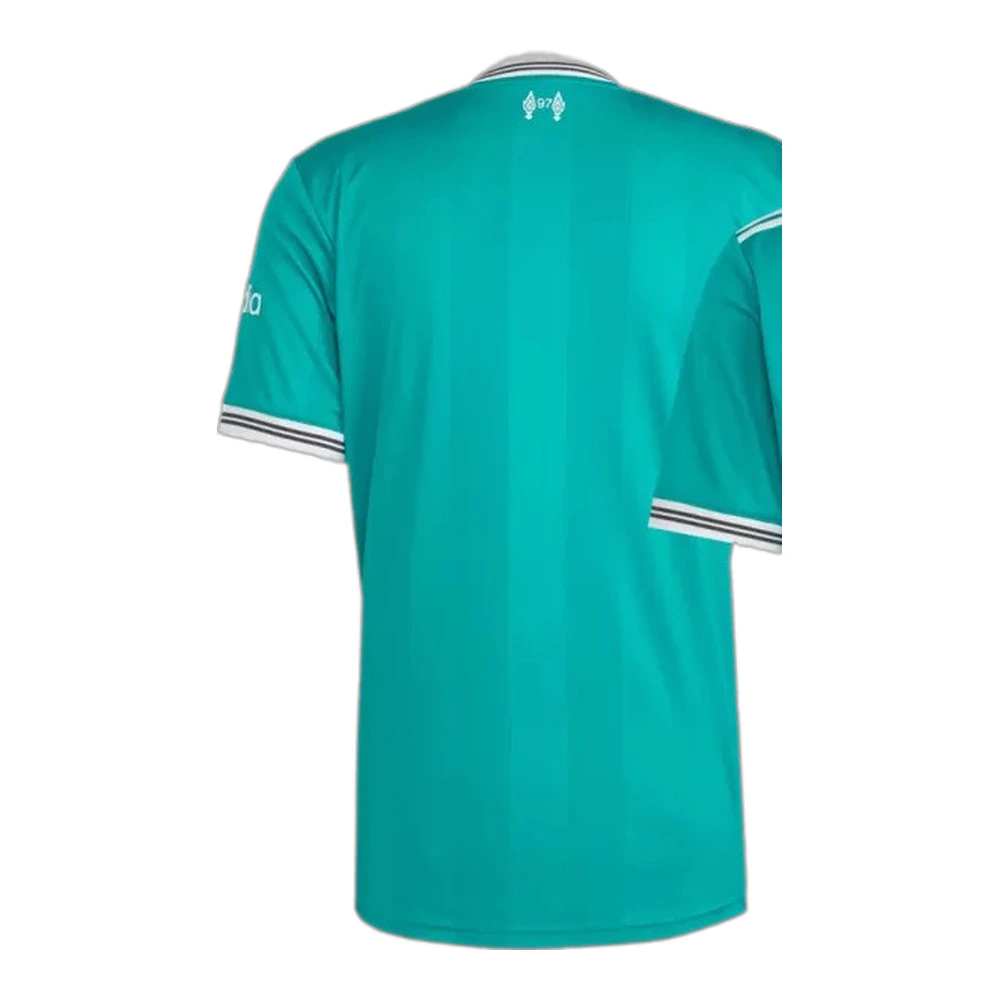
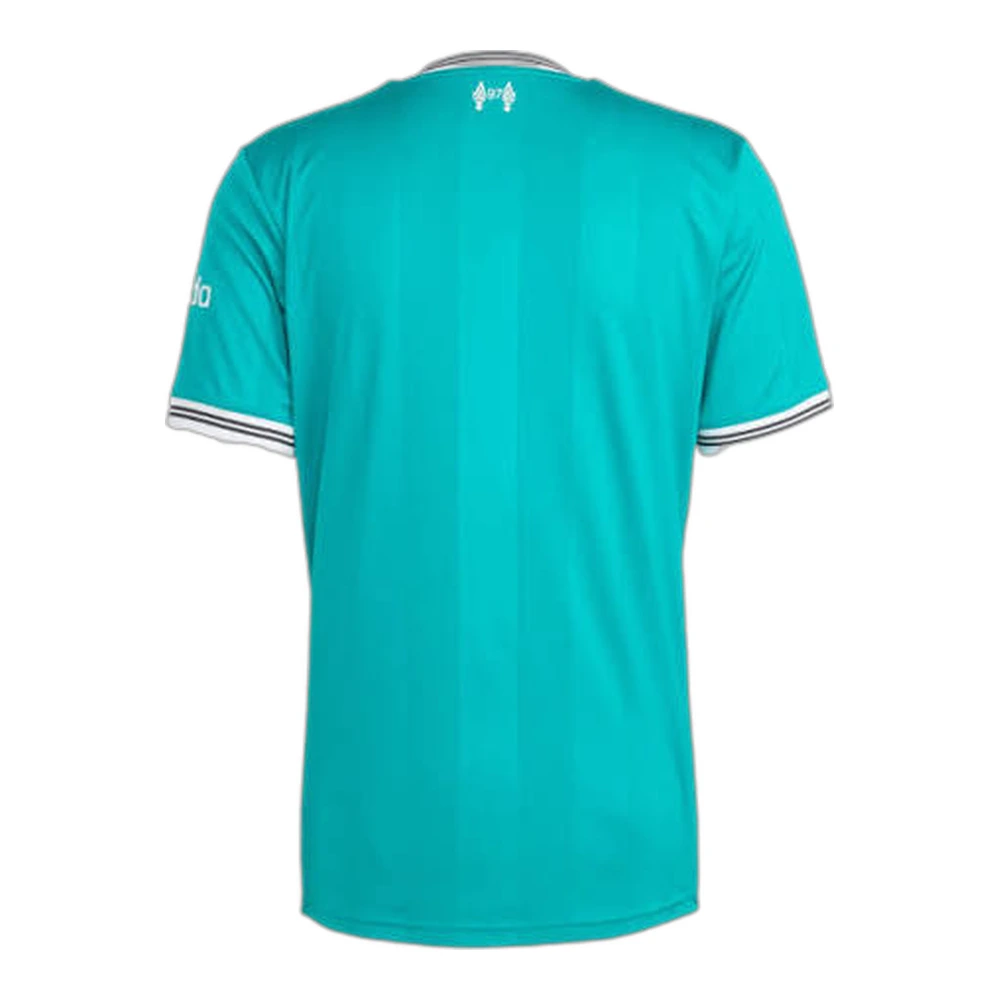
Ajoute le verso du maillot Liverpool Extérieur 2025-26 et améliore celui du Third 2025-26

Changed region(s): [[0.155, 0.031, 0.837, 0.961]]

diff --git a/index.html b/index.html
@@ -1464,7 +1464,7 @@ const products = [
   { id:523, club:'Arsenal',               name:'Maillot Third',     season:'2026-27', league:'Premier League', type:'standard', emoji:'👕', mainColor:'#E8D9A0', accentColor:'#1A2A54', flocageColor:'#1A2A54', frontImage:'images/arsenal-3rd-2627-1.webp', carouselImages:['images/arsenal-3rd-2627-1.webp','images/arsenal-3rd-2627-2.webp'] },
   { id:346, club:'Liverpool',             name:'Maillot Domicile', season:'2026-27', league:'Premier League', type:'standard', emoji:'👕', mainColor:'#C8102E', accentColor:'#FFFFFF', flocageColor:'#FFFFFF', frontImage:'images/liverpool-home-2627-1.webp', carouselImages:['images/liverpool-home-2627-1.webp','images/liverpool-home-2627-2.webp'] },
   { id:347, club:'Liverpool',             name:'Maillot Domicile', season:'2025-26', league:'Premier League', type:'standard', emoji:'👕', mainColor:'#C8102E', accentColor:'#FFFFFF', flocageColor:'#FFFFFF', frontImage:'images/liverpool-home-2526-1.webp', carouselImages:['images/liverpool-home-2526-1.webp','images/liverpool-home-2526-2.webp'] },
-  { id:348, club:'Liverpool',             name:'Maillot Extérieur', season:'2025-26', league:'Premier League', type:'standard', emoji:'👕', mainColor:'#EFECE3', accentColor:'#C8102E', flocageColor:'#C8102E', frontImage:'images/liverpool-ext-2526-1.webp', carouselImages:['images/liverpool-ext-2526-1.webp'] },
+  { id:348, club:'Liverpool',             name:'Maillot Extérieur', season:'2025-26', league:'Premier League', type:'standard', emoji:'👕', mainColor:'#EFECE3', accentColor:'#C8102E', flocageColor:'#C8102E', frontImage:'images/liverpool-ext-2526-1.webp', carouselImages:['images/liverpool-ext-2526-1.webp','images/liverpool-ext-2526-2.webp'] },
   { id:402, club:'Manchester United',      name:'Maillot Domicile',  season:'2025-26', league:'Premier League', type:'standard', emoji:'👕', mainColor:'#DA291C', accentColor:'#FFFFFF', flocageColor:'#FFFFFF', frontImage:'images/manutd-home-2526-1.webp', carouselImages:['images/manutd-home-2526-1.webp'] },
   { id:403, club:'Manchester United',      name:'Maillot Extérieur', season:'2025-26', league:'Premier League', type:'standard', emoji:'👕', mainColor:'#EFEFF5', accentColor:'#1A1A2E', flocageColor:'#1A1A2E', frontImage:'images/manutd-ext-2526-1.webp', carouselImages:['images/manutd-ext-2526-1.webp','images/manutd-ext-2526-2.webp'] },
   { id:521, club:'Manchester United',      name:'Maillot Extérieur', season:'2026-27', league:'Premier League', type:'standard', emoji:'👕', mainColor:'#1E43B3', accentColor:'#C8102E', flocageColor:'#FFFFFF', frontImage:'images/manutd-ext-2627-1.webp', carouselImages:['images/manutd-ext-2627-1.webp','images/manutd-ext-2627-2.webp'] },
